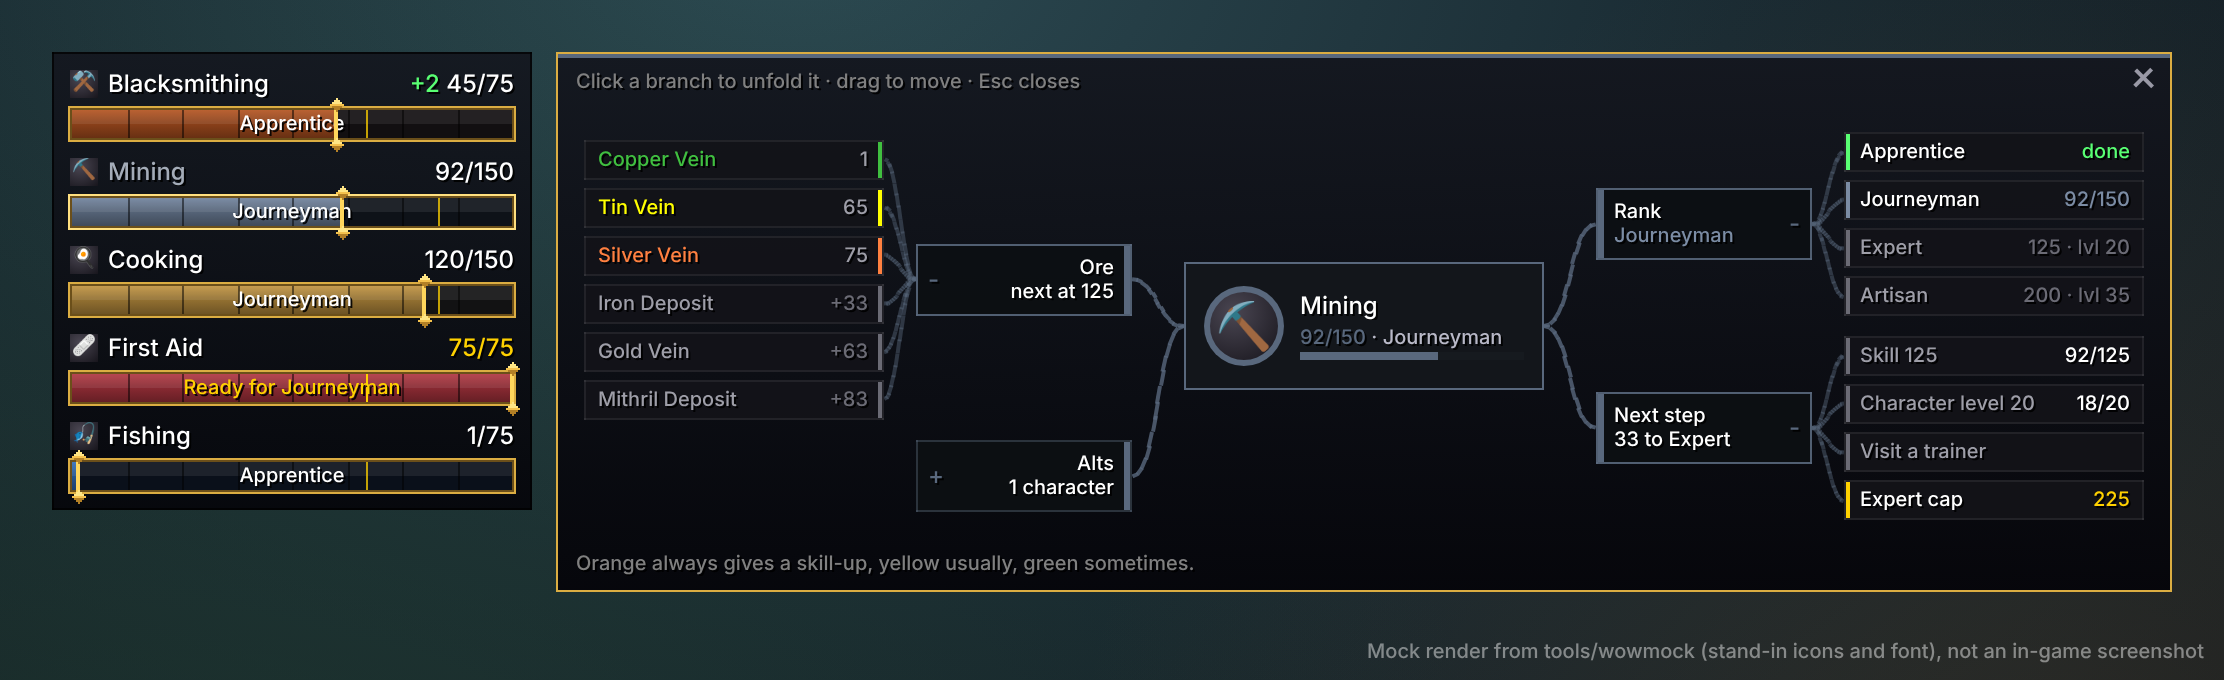
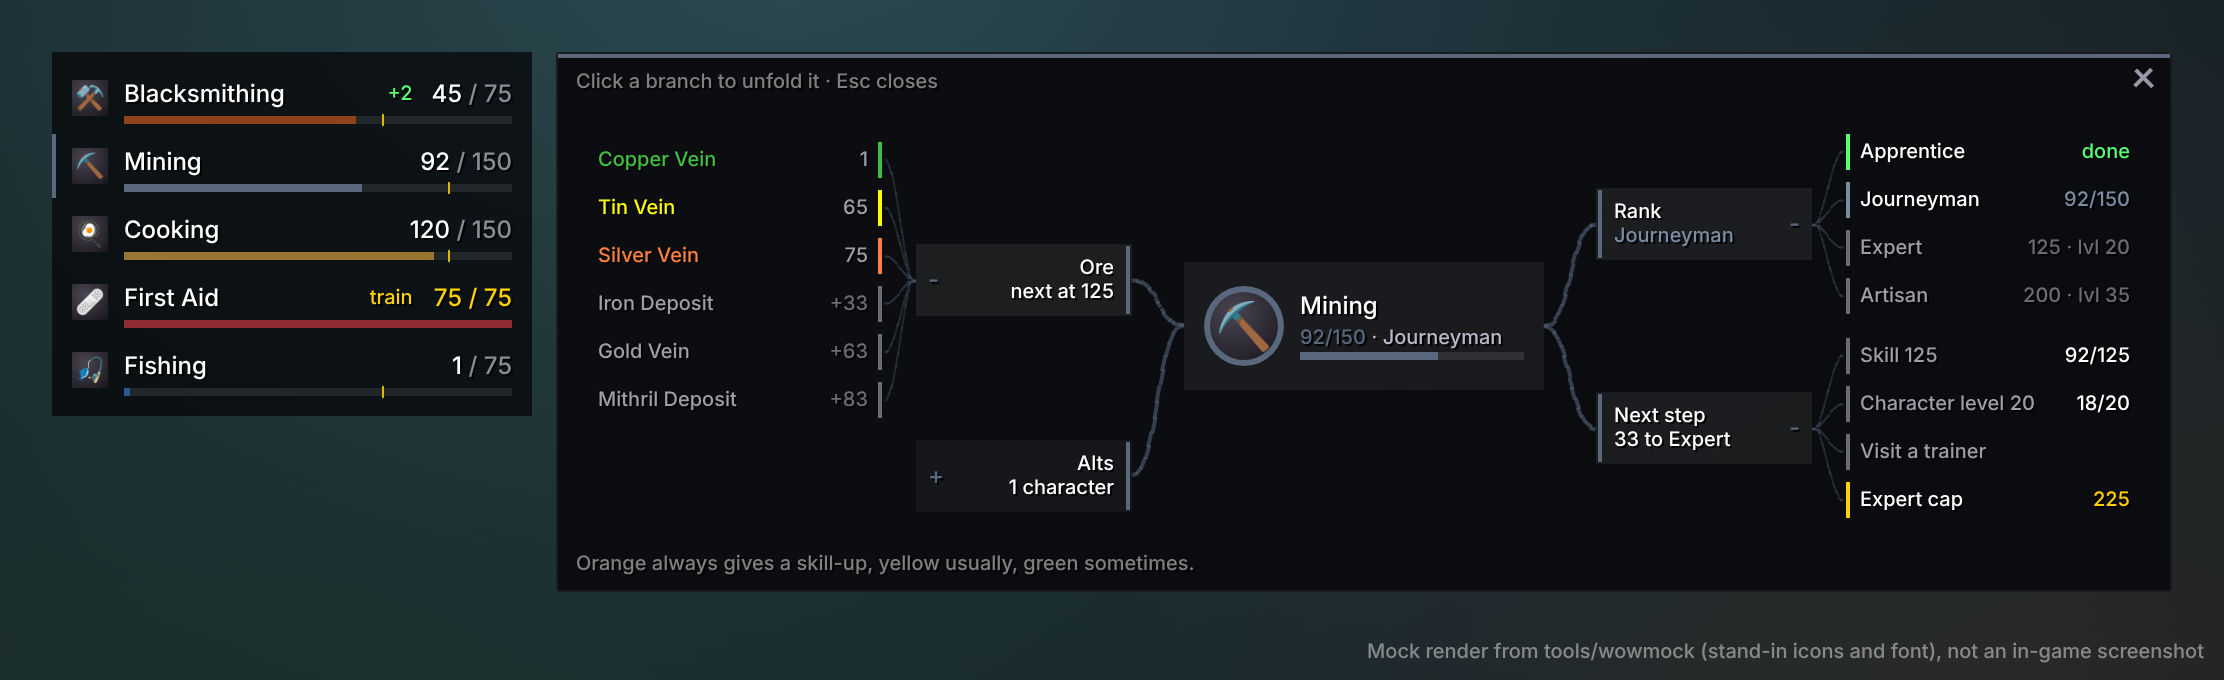
Profession Bars: minimal "clean" style (new default) and idle fade
A calmer default look. Each profession is an icon, the name and "45 / 75"
(the max dimmed) above a 4px colour line on a flat translucent panel. No
frame, gloss, dividers or text over the fill. Colour is spent only on
things you can act on: a gold tick where the next rank can be trained,
gold numbers plus a small "train" once you can, and a green "+N" for
skill gained this session. The selected profession gets a thin colour
line at the panel edge.

The map follows: a flat dark panel with a hairline edge, soft tiles for
branches, plain text leaves with a colour tick, and thinner connectors.

/pb fade dims the bars until you hover them; a skill-up wakes them for a
few seconds. /pb style cycles clean -> classic -> slim. Tests cover the
clean layout, notes, tick, selection, map look, style cycle and fade
(4,820 checks).

Claude-Session: https://claude.ai/code/session_01QGZPWuTxziGaHoBPVw1qz5

diff --git a/addons/ProfessionBars/README.md b/addons/ProfessionBars/README.md
@@ -1,8 +1,8 @@
 # Profession Bars
 
 Colour-themed skill bars for your professions in World of Warcraft: Forever, in a
-framed classic style or a compact slim style. Click a bar and that profession unfolds
-beside it as a mind map. The map shows:
+minimal clean style (the default), a framed classic style or a compact slim style.
+Click a bar and that profession unfolds beside it as a mind map. The map shows:
 - your rank, and what it takes to reach the next one;
 - a plan for the next skill points, with the reagents you're missing;
 - what you can craft right now, and where your gathering skill stands;
@@ -30,13 +30,15 @@ out of date, tick *Load out of date AddOns* or update the number on the
 ## Using it
 
 - **Bars.** One bar per profession: primaries first, then Cooking, First Aid and Fishing.
-  - **Classic style (the default).** The name and value sit above a gold-framed bar,
-    with your rank written inside. A gold marker with diamond ends sits at your current
-    skill. The inside text says *Ready for Journeyman* when you can train.
-  - **Slim style.** One compact bar per profession, for a minimal UI: `/pb style slim`.
-  - A thin gold line marks where the next rank can be trained. The numbers turn gold
-    when you can train it right now.
-  - A green **+N** shows the skill you've gained this session.
+  Pick a style with `/pb style`:
+  - **Clean (the default).** Icon, name and `45 / 75` above a thin colour line, on a
+    flat translucent panel. A small gold tick marks where the next rank can be trained.
+    Once you can train, the numbers turn gold and a small *train* appears. A green
+    **+N** shows the skill you've gained this session. Nothing else is drawn.
+  - **Classic.** The name and value sit above a gold-framed bar with your rank written
+    inside, and a gold marker with diamond ends sits at your current skill.
+  - **Slim.** One compact bar per profession with the text inside.
+  - `/pb fade` dims the bars until you hover them. A skill-up wakes them for a moment.
   - Hover a bar to see which of your other characters have that profession.
 - **Click a bar** to unfold its mind map beside the bars. Click the bar again, or
   press Esc, to close it.
@@ -52,6 +54,8 @@ out of date, tick *Load out of date AddOns* or update the number on the
   Drag the header to move the bars.
 - **Toggle everything** with `/pb`, a key binding (Key Bindings → AddOns → Profession
   Bars), or the minimap addon menu.
+
+![The three styles](../../docs/professionbars/styles.png)
 
 ![The four themes](../../docs/professionbars/themes.png)
 
@@ -88,14 +92,15 @@ a recipe to link it in chat.
 | `/pb <profession>` or `/pb map <profession>` | Open a profession's map, e.g. `/pb mining`. |
 | `/pb edit` | Choose which professions get a bar. |
 | `/pb hide <profession>`, `/pb show <profession\|all>` | Hide or show one bar. |
-| `/pb style [classic\|slim]` | Framed bars with the rank inside, or compact bars. Toggles with no name. |
+| `/pb style [clean\|classic\|slim]` | Minimal, framed or compact bars. Cycles with no name. |
+| `/pb fade` | Dim the bars until you hover them (toggle). |
 | `/pb theme [vibrant\|soft\|midnight\|mono]` | Set the theme, or cycle with no name. |
 | `/pb color <profession> <#rrggbb\|reset>` | Give one profession your own colour. |
 | `/pb lock`, `/pb unlock` | Stop or allow dragging. |
 | `/pb scale <0.5-2>`, `/pb mapscale <0.5-2>`, `/pb width <140-400>` | Sizes. |
 | `/pb combat` | Hide the bars while in combat (toggle). |
 | `/pb alts`, `/pb forget <name>` | List your other characters' professions, or forget one. |
-| `/pb reset` | Reset position, size, style, theme and colours. Alts and recipes are kept. |
+| `/pb reset` | Reset position, size, style, fade, theme and colours. Alts and recipes are kept. |
 | `/pb debug` | Print which game APIs the addon found, what they returned and the last error. |
 
 ## Known limitations

diff --git a/tools/wowmock/README.md b/tools/wowmock/README.md
@@ -30,7 +30,7 @@ previewed.
 ```sh
 # from the repository root
 lua5.1 tools/wowmock/run.lua                                  # run the tests
-lua5.1 tools/wowmock/run.lua --dump /tmp/scene.json main      # or: themes, gather
+lua5.1 tools/wowmock/run.lua --dump /tmp/scene.json main      # or: styles, themes, gather
 node tools/wowmock/preview.js /tmp/scene.json docs/professionbars/main.png
 ```
 
